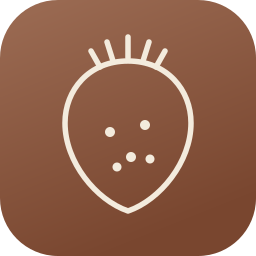
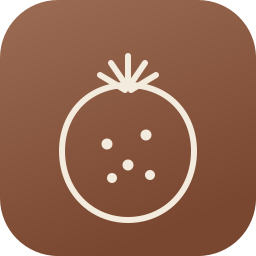
docs: branding + signature-animation research; refine pomegranate concept
Multi-source synthesis (nutrition, cycle, and wearable logo conventions +
beloved app micro-animations). Recommends a pomegranate combination mark
(food + cycle, ownable) and a "grow-and-ripen on goal" signature animation
that shares the logo's shape language. Refined pomegranate concept render.

Claude-Session: https://claude.ai/code/session_01UsyE6PcGgXEEZ9txs4mxmW

diff --git a/docs/branding-research.md b/docs/branding-research.md
@@ -1,0 +1,76 @@
+# Branding & signature-animation research — June 2026
+
+Multi-source research into logo conventions (nutrition apps, women's-health/cycle
+apps, recovery wearables) and beloved app micro-animations, to pick an ownable
+logo + one signature in-app moment.
+
+## The cliché map (what to avoid)
+Across **both** categories, the same tired symbols recur:
+- **Nutrition apps:** apple, leaf, flame; **orange & green** are crowded
+  (Cronometer, Lose It, Noom, Lifesum, Foodvisor). Lifesum is *retreating* from
+  its apple — a sign the trope is dated.
+- **Women's-health apps:** **flowers/lotus/petals, soft pink/pastel, moons/
+  crescents, droplets, hearts.** The lotus/flower is the universal spa/yoga/
+  beauty shorthand; the moon is now *nearly as crowded as flowers* (Stardust,
+  28, Moonai, Lunari, …).
+
+So a generic bloom/lotus (our current mark) sits squarely in the spa cliché.
+
+## What the breakout brands do
+Premium credibility comes from **typographic confidence + crisp geometry + a
+non-pastel palette**, not decoration:
+- **Clue** — bold menstrual **red** + plain wordmark (clinical/empowered).
+- **MacroFactor** — black/white **"M" monogram** (Pentagram). "Inspired science."
+- **ZOE** — typographic **"Z"** with a negative-space cut, warm yellow.
+- **Wild.AI** — sharp **diamond/geometric**, anti-"soft/fragile."
+- **Whoop/Garmin/Oura** — mono wordmark / triangle / ring; zero florals or pink.
+- **Yuka** — a **face/head** silhouette (white space: it's about *you*, not produce).
+
+## Recommendation — logo
+A **combination mark**: a confident **serif wordmark** ("kcal pal", lowercase,
+no hyphen — the unit `kcal` stays lowercase-correct) paired with **one
+distinctive symbol**. For the symbol, ranked:
+
+1. **Pomegranate** (recommended). The single botanical that is BOTH food *and*
+   the classic fertility/cycle symbol (Persephone myth), warm in our clay
+   palette, and essentially unused by competitors → highly ownable. Tells the
+   "nutrition × cycle" story no apple/leaf/lotus can.
+2. **Serif "k" lettermark** — the MacroFactor/ZOE lane: premium, scalable,
+   trademark-safe, zero cliché. Safest, most "credible," least warm.
+3. **Sprout/seedling** — clean "nourishment + growth," modern; less
+   differentiated than the pomegranate.
+
+Avoid: lotus/5-petal bloom, apple, leaf, flame, moon/crescent, soft pink, heart,
+droplet.
+
+## Recommendation — one signature animation
+**A growing botanical that ripens/blooms with the day and fruits on goal** —
+fusing the three best precedents into a calm, on-brand whole:
+- Oura's "one meaningful state," Apple Rings' screenshot-worthy *closure payoff*,
+  Finch's gentle *additive* growth — **minus** Forest's loss-aversion and
+  Duolingo's high-energy gamification.
+- It should share the logo's shape language: if the logo is the pomegranate, the
+  motif is a bare branch that **buds → flowers → ripens a pomegranate** as
+  calories approach the goal (the in-app moment literally becomes the logo).
+
+**Two supporting micro-interactions:**
+1. A single thin **progress orbit** around the motif (`pathLength` 0→1) — the
+   proven at-a-glance "how close am I," kept to one ring so it reads calm.
+2. A subtle **phase/time-aware ambient tint** (gradient shift by cycle phase or
+   time of day) — "the app knows me," reduced-motion-safe (color/opacity only).
+Keep the existing count-up on the hero number; reserve any liquid-fill strictly
+for the literal hydration metric.
+
+## Implementation notes
+- Add **Framer Motion** (not yet installed). Growth = `scale`/`pathLength` +
+  `staggerChildren`; orbit = `motion.circle` `pathLength`; count-up =
+  `useMotionValue` + `animate()`.
+- Wrap in `<MotionConfig reducedMotion="user">` + `useReducedMotion()`; under
+  reduced motion, cross-fade growth stages instead of scaling, and snap count-ups.
+
+## Sources
+Cycle/nutrition/wearable brand pages (Clue, Flo, Stardust, Wild.AI, Natural
+Cycles, MacroFactor/Pentagram, ZOE/Ragged Edge, Cronometer, Yuka, Noom),
+Apple Fitness rings, Oura readiness, Headspace, Finch, Forest, Duolingo, Arc;
+prefers-reduced-motion (MDN, Tatiana Mac), Motion docs. (Full URLs captured in
+the research transcripts.)
